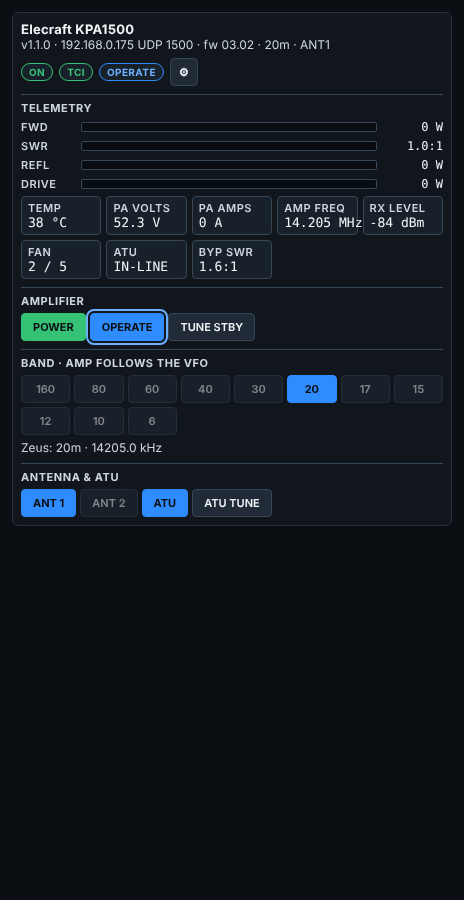
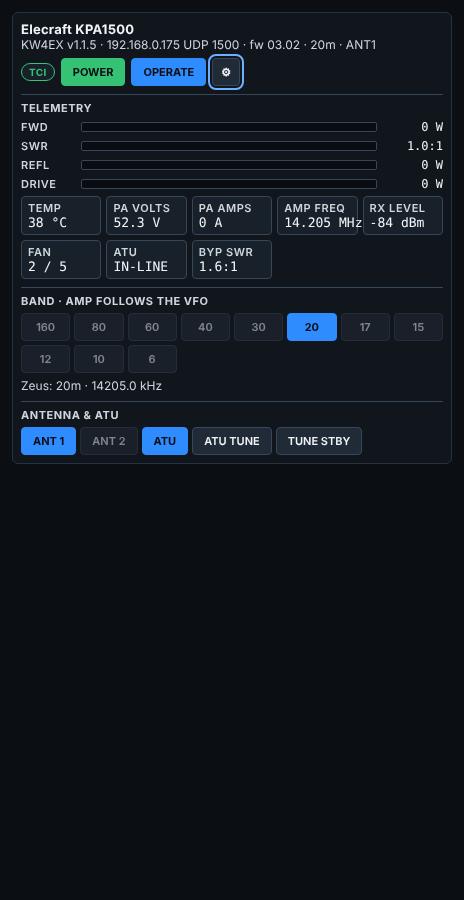
1.1.5: drive from the radio during Zeus TUNE; POWER/OPERATE on the top line
Zeus's TCI trx flag covers MOX only, so the radio's tx_sensors power was
discarded during TUNE. Accept any fresh reading (Zeus sends 0 when unkeyed)
and take tx_power as a backup. Panel: POWER and OPERATE buttons replace the
status labels on the top line; the Amplifier row is gone and TUNE STBY moves
to Antenna & ATU.

Claude-Session: https://claude.ai/code/session_012y4gHm9L1yG8h6Yc21BskF

diff --git a/src/Kpa1500/ui/kpa1500.es.js b/src/Kpa1500/ui/kpa1500.es.js
@@ -278,16 +278,45 @@ function makePanel(callBackend) {
     const hasTarget = cfg.transport === "serial" ? !!(cfg.serialPort || "").trim() : !!(cfg.host || "").trim();
     const tci = status.tci || { enabled: false };
 
+    // ── top-line buttons ──
+    // Every two-state control is one toggle that is filled (lit) when active.
+    // Pairs/sets (ANT 1/2, bands) light the active one and fade the others.
+    // Dashed outline = locked (transmitting / tuning / amp off), never "inactive".
+    const toggle = (key, label, lit, opts) => h("button", { key, type: "button",
+      className: c("b " + (opts.variant || "") + (opts.faint ? " faint" : "")),
+      "aria-pressed": !!lit, disabled: !!opts.disabled, title: opts.title, onClick: opts.onClick }, label);
+
+    const ampBtns = [];
+    if (cfg.ctlPower) {
+      ampBtns.push(toggle("pw", amp.powerOnInProgress ? "WAKING…" : "POWER", on || amp.powerOnInProgress, {
+        variant: "litok",
+        disabled: !connected || busy || amp.powerOnInProgress || (on && (tx || tuning)),
+        title: on ? (tx ? "Not while transmitting" : "Amplifier is ON — click to turn it off") : "Amplifier is off — click to turn it on",
+        onClick: () => {
+          const want = on ? "off" : "on";
+          if ((want === "off" && cfg.confirmPowerOff) || (want === "on" && cfg.confirmPowerOn)) setConfirm(want);
+          else act("/power", { on: want === "on" });
+        } }));
+    }
+    if (cfg.ctlOperate) {
+      const operating = on && amp.operate === true;
+      ampBtns.push(toggle("op", "OPERATE", operating, {
+        // Going to STANDBY is always allowed (even under RF); going to OPERATE is locked under RF.
+        disabled: operating ? (!on || busy) : relayLock,
+        title: !on ? "Amplifier is off" : operating ? "In OPERATE — click for STANDBY" : (lockTip || "In STANDBY — click for OPERATE"),
+        onClick: () => act("/operate", { operate: !operating }) }));
+    }
+
     // ── header ──
     const pills = [];
     if (!connected) pills.push(h("span", { key: "c", className: c("pill " + (conn.state === "opening" ? "warn" : "")) },
       conn.state === "opening" ? "OPENING" : "OFFLINE"));
-    if (connected) pills.push(h("span", { key: "p", className: c("pill " + (on ? "ok" : amp.power === "off" ? "" : "warn")) },
+    if (connected && !cfg.ctlPower) pills.push(h("span", { key: "p", className: c("pill " + (on ? "ok" : amp.power === "off" ? "" : "warn")) },
       amp.powerOnInProgress ? "WAKING…" : on ? "ON" : amp.power === "off" ? "OFF" : "NO REPLY"));
     if (tci.enabled) pills.push(h("span", { key: "tci", className: c("pill " + (tci.connected ? "ok" : "warn")),
       title: tci.connected ? "TCI connected to Zeus at " + tci.target : "TCI not connected: " + (tci.error || "connecting to " + tci.target) },
       tci.connected ? (tci.tune ? "TCI TUNE" : "TCI") : "TCI WAIT"));
-    if (on && amp.operate != null) pills.push(h("span", { key: "o", className: c("pill " + (amp.operate ? "acc" : "")) }, amp.operate ? "OPERATE" : "STANDBY"));
+    if (on && amp.operate != null && !cfg.ctlOperate) pills.push(h("span", { key: "o", className: c("pill " + (amp.operate ? "acc" : "")) }, amp.operate ? "OPERATE" : "STANDBY"));
     if (tx) pills.push(h("span", { key: "t", className: c("pill tx") }, "TX"));
     if (tuning) pills.push(h("span", { key: "u", className: c("pill warn") }, "ATU TUNING"));
     if (fault) pills.push(h("span", { key: "f", className: c("pill tx") }, "FAULT " + fault.code));
@@ -300,7 +329,7 @@ function makePanel(callBackend) {
           (amp.firmware ? " · fw " + amp.firmware : "") +
           (amp.band ? " · " + amp.band : "") +
           (on && amp.antenna ? " · ANT" + amp.antenna : ""))),
-      h("div", { className: c("row") }, pills,
+      h("div", { className: c("row") }, pills, ampBtns,
         h("button", { className: c("b icon"), type: "button", "aria-label": "Settings", title: "Settings", onClick: openSettings }, "⚙")));
 
     const banners = [];
@@ -421,44 +450,7 @@ function makePanel(callBackend) {
       tiles.length ? h("div", { className: c("tiles") }, tiles) : null) : null;
 
     // ── controls ──
-    // Every two-state control is one toggle that is filled (lit) when active.
-    // Pairs/sets (ANT 1/2, bands) light the active one and fade the others.
-    // Dashed outline = locked (transmitting / tuning / amp off), never "inactive".
-    const toggle = (key, label, lit, opts) => h("button", { key, type: "button",
-      className: c("b " + (opts.variant || "") + (opts.faint ? " faint" : "")),
-      "aria-pressed": !!lit, disabled: !!opts.disabled, title: opts.title, onClick: opts.onClick }, label);
-
-    const ampBtns = [];
-    if (cfg.ctlPower) {
-      ampBtns.push(toggle("pw", amp.powerOnInProgress ? "WAKING…" : "POWER", on || amp.powerOnInProgress, {
-        variant: "litok",
-        disabled: !connected || busy || amp.powerOnInProgress || (on && (tx || tuning)),
-        title: on ? (tx ? "Not while transmitting" : "Amplifier is ON — click to turn it off") : "Amplifier is off — click to turn it on",
-        onClick: () => {
-          const want = on ? "off" : "on";
-          if ((want === "off" && cfg.confirmPowerOff) || (want === "on" && cfg.confirmPowerOn)) setConfirm(want);
-          else act("/power", { on: want === "on" });
-        } }));
-    }
-    if (cfg.ctlOperate) {
-      const operating = on && amp.operate === true;
-      ampBtns.push(toggle("op", "OPERATE", operating, {
-        // Going to STANDBY is always allowed (even under RF); going to OPERATE is locked under RF.
-        disabled: operating ? (!on || busy) : relayLock,
-        title: !on ? "Amplifier is off" : operating ? "In OPERATE — click for STANDBY" : (lockTip || "In STANDBY — click for OPERATE"),
-        onClick: () => act("/operate", { operate: !operating }) }));
-    }
-    if (cfg.standbyOnTune && cfg.ctlTuneGuard) {
-      const armed = guard.phase !== "idle";
-      ampBtns.push(toggle("tg", "TUNE STBY", armed, {
-        variant: "litamber", disabled: !on || busy,
-        title: armed ? "Standby-on-Tune armed — click to cancel" : "Click, then press TUNE on the radio: the amp goes to STANDBY for the tune and back to OPERATE after",
-        onClick: () => act("/tune-guard", { arm: !armed }) }));
-    }
-
     const groups = [];
-    if (ampBtns.length) groups.push(h("div", { key: "a", className: c("group") },
-      h("div", { className: c("glab") }, "Amplifier"), h("div", { className: c("btns") }, ampBtns)));
 
     if (cfg.ctlBand) {
       const radioText = status.radio && status.radio.available && status.radio.band
@@ -477,7 +469,8 @@ function makePanel(callBackend) {
         h("div", { className: c("muted") }, radioText)));
     }
 
-    if (cfg.ctlAntenna || cfg.ctlAtu || cfg.ctlTune) {
+    const showGuardBtn = cfg.standbyOnTune && cfg.ctlTuneGuard;
+    if (cfg.ctlAntenna || cfg.ctlAtu || cfg.ctlTune || showGuardBtn) {
       const atuBtns = [];
       if (cfg.ctlAntenna) [1, 2].forEach((a) => {
         const active = on && amp.antenna === a;
@@ -498,6 +491,13 @@ function makePanel(callBackend) {
         disabled: tuning ? busy : relayLock,
         title: tuning ? "ATU is tuning — click to cancel" : (lockTip || "Start a full-search ATU tune (you supply the carrier)"),
         onClick: () => tuning ? act("/atu/cancel") : setConfirm("tune") }));
+      if (showGuardBtn) {
+        const armed = guard.phase !== "idle";
+        atuBtns.push(toggle("tg", "TUNE STBY", armed, {
+          variant: "litamber", disabled: !on || busy,
+          title: armed ? "Standby-on-Tune armed — click to cancel" : "Click, then press TUNE on the radio: the amp goes to STANDBY for the tune and back to OPERATE after",
+          onClick: () => act("/tune-guard", { arm: !armed }) }));
+      }
       groups.push(h("div", { key: "t", className: c("group") },
         h("div", { className: c("glab") }, "Antenna & ATU"), h("div", { className: c("btns") }, atuBtns)));
     }

diff --git a/src/Kpa1500/TciClient.cs b/src/Kpa1500/TciClient.cs
@@ -28,6 +28,8 @@ public sealed class TciClient : IAsyncDisposable
     private readonly Task _loop;
 
     private volatile bool _connected;
+    /// <summary>Tests only: pretend the TCI socket is up.</summary>
+    internal void TestSetConnected(bool on) => _connected = on;
     private volatile bool _tune;
     private volatile bool _trx;
     private volatile bool _split;
@@ -82,7 +84,9 @@ public sealed class TciClient : IAsyncDisposable
     {
         get
         {
-            if (!_connected || !_trx) return null;
+            // Zeus's trx flag covers MOX only; TUNE raises "tune" instead. Zeus
+            // sends 0 W when not keyed, so a fresh non-zero value is enough.
+            if (!_connected) return null;
             var age = Environment.TickCount64 - Interlocked.Read(ref _radioFwdTicks);
             return age > 1500 ? null : BitConverter.Int64BitsToDouble(Interlocked.Read(ref _radioFwdBits));
         }
@@ -195,6 +199,17 @@ public sealed class TciClient : IAsyncDisposable
             if (colon < 0) continue;
             var name = tok[..colon].Trim().ToLowerInvariant();
             var args = tok[(colon + 1)..].Split(',');
+            if (name is "tx_power" or "tx_forward_power")
+            {
+                // tx_power:<watts> — Zeus broadcasts this to every client; backup
+                // for tx_sensors.
+                if (args.Length == 1 && double.TryParse(args[0].Trim(), NumberStyles.Float, CultureInfo.InvariantCulture, out var pw))
+                {
+                    Interlocked.Exchange(ref _radioFwdBits, BitConverter.DoubleToInt64Bits(Math.Max(0, pw)));
+                    Interlocked.Exchange(ref _radioFwdTicks, Environment.TickCount64);
+                }
+                continue;
+            }
             if (args.Length < 2) continue;
             if (!int.TryParse(args[0].Trim(), NumberStyles.Integer, CultureInfo.InvariantCulture, out var rx) || rx != _rx) continue;
             if (name is "tx_sensors" or "tx_sensor")

diff --git a/tests/Kpa1500.Tests/Program.cs b/tests/Kpa1500.Tests/Program.cs
@@ -218,6 +218,15 @@ Console.WriteLine("TCI parsing");
     Check("TCI VFO A/B parsed, RX1 ignored", changes == 2);
     tci.Ingest("tx_sensors:0,0,9.0,0.4,1.1;");
     Check("TCI tx_sensors not reported while not connected/transmitting", tci.RadioFwdW is null);
+    tci.TestSetConnected(true);
+    tci.Ingest("trx:0,false;tune:0,true;tx_sensors:0,0,9.0,0.4,1.1;");
+    Check("TCI drive during TUNE (trx stays false in Zeus)", tci.RadioFwdW == 9.0);
+    tci.Ingest("tx_power:12.5;");
+    Check("TCI tx_power accepted as drive backup", tci.RadioFwdW == 12.5);
+    tci.Ingest("tune:0,false;tx_sensors:0,0,0.0,0.0,1.0;");
+    Check("TCI drive 0 when Zeus unkeys", tci.RadioFwdW == 0);
+    tci.TestSetConnected(false);
+    changes = 2;
     tci.Ingest("split_enable:0,true;");
     Check("TCI split flag parsed", changes == 3);
     var levels = new List<double>();

diff --git a/src/Kpa1500/Kpa1500Plugin.cs b/src/Kpa1500/Kpa1500Plugin.cs
@@ -27,7 +27,7 @@ public sealed record OnRequest(bool On);
 public sealed class Kpa1500Plugin : IZeusPlugin, IBackendPlugin
 {
     /// <summary>Keep identical to plugin.json "version".</summary>
-    public const string ManifestVersion = "1.1.4";
+    public const string ManifestVersion = "1.1.5";
     private const string SettingsKey = "config";
 
     private IPluginContext? _ctx;

diff --git a/README.md b/README.md
@@ -36,11 +36,11 @@ writes everything to `build-log.txt`.
 
 | Computer | Install file |
 | --- | --- |
-| Windows | `com.kw4ex.zeus.kpa1500-1.1.4.zip` |
-| Mac with Apple silicon (M1–M4) | `com.kw4ex.zeus.kpa1500-1.1.4-osx-arm64.zip` |
-| Intel Mac | `com.kw4ex.zeus.kpa1500-1.1.4-osx-x64.zip` |
-| Linux PC (64-bit Intel/AMD) | `com.kw4ex.zeus.kpa1500-1.1.4-linux-x64.zip` |
-| Raspberry Pi 4/5 (64-bit OS) | `com.kw4ex.zeus.kpa1500-1.1.4-linux-arm64.zip` |
+| Windows | `com.kw4ex.zeus.kpa1500-1.1.5.zip` |
+| Mac with Apple silicon (M1–M4) | `com.kw4ex.zeus.kpa1500-1.1.5-osx-arm64.zip` |
+| Intel Mac | `com.kw4ex.zeus.kpa1500-1.1.5-osx-x64.zip` |
+| Linux PC (64-bit Intel/AMD) | `com.kw4ex.zeus.kpa1500-1.1.5-linux-x64.zip` |
+| Raspberry Pi 4/5 (64-bit OS) | `com.kw4ex.zeus.kpa1500-1.1.5-linux-arm64.zip` |
 
 The packages differ only in the bundled serial-port library (macOS adds
 `libSystem.IO.Ports.Native.dylib`, Linux `libSystem.IO.Ports.Native.so`); the
